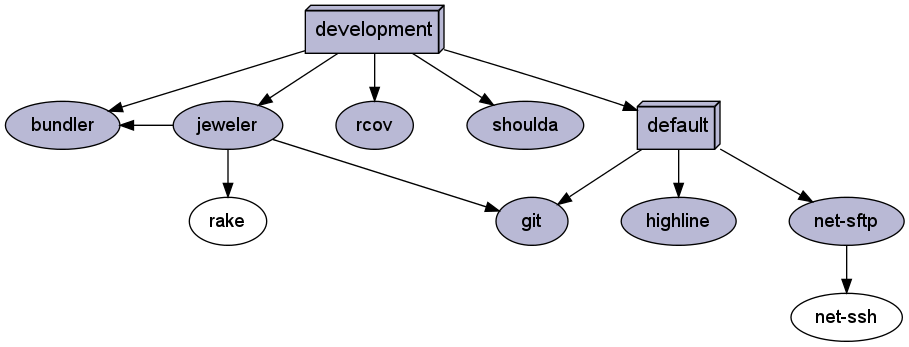
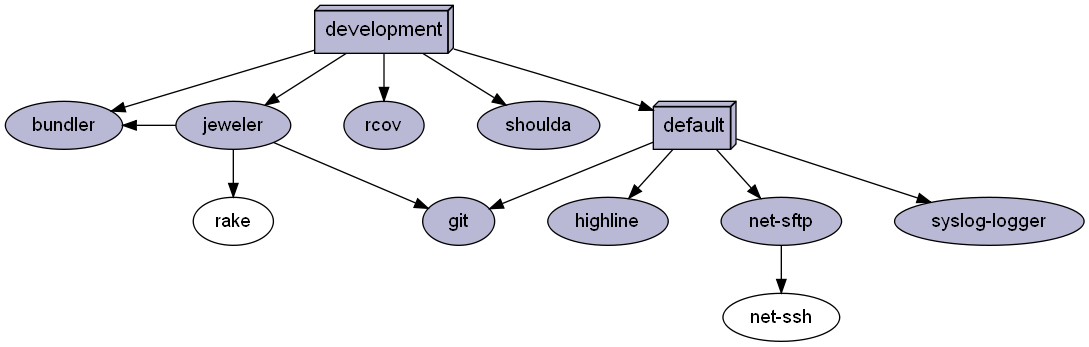
Syslog
Added syslog via 'syslog-logger'

diff --git a/lib/girror.rb b/lib/girror.rb
@@ -39,12 +39,23 @@ module Girror
       # Runs the app.
       def run ops
 
-        # main logs go here
-        @log = Logger.new STDERR
+        # Logging setup
+        @log = case ops[:log]
+        when 'syslog'
+          unless ENV['OS'] == 'Windows_NT'
+            require 'syslog_logger'
+            SyslogLogger.new('girror')
+          else
+            Logger.new STDERR
+          end
+        when nil
+          Logger.new STDERR
+        else
+          Logger.new ops:[:log]
+        end
+        @log.datetime_format = "%Y-%m-%d %H:%M:%S "
         log "Starting"
-
-        # debug logs go here
-        @debug = Logger.new STDERR if ops[:verbose]
+        @debug = true if ops[:verbose]
         debug "Current options are: #{ops.inspect}"
 
         # check the validity of a local directory
@@ -119,7 +130,7 @@ module Girror
 
       # Does STDERR.puts of a given string if debugging mode is set.
       def debug string
-        @debug.debug string if @debug
+        @log.debug string if @debug
       end
 
       def log string
